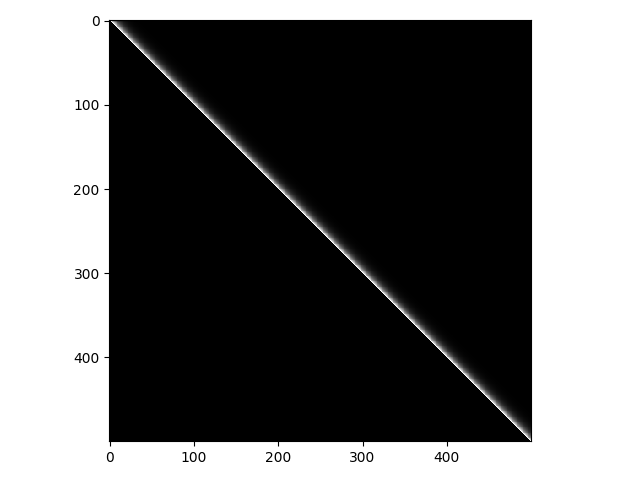
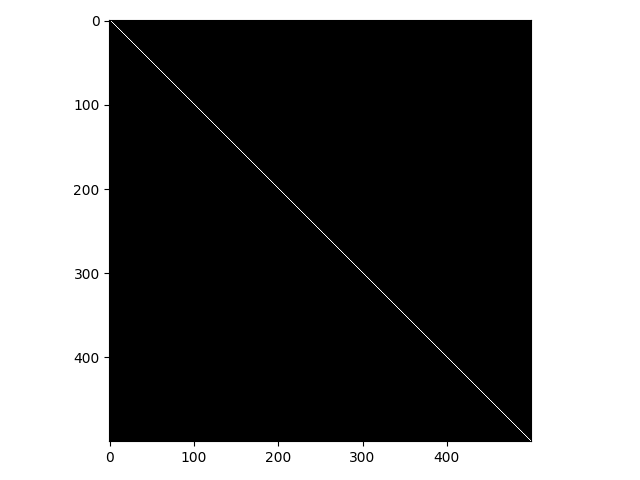
figure 2C redraw according to orignal paper
hyperparameter and maze length edited
after editing algorithm of updating SR matrix

diff --git a/figure2C.py b/figure2C.py
@@ -13,7 +13,7 @@ import sr
 
 # maze env
 
-MAZE_LENGTH = 50 # p.8 of supplement, 
+MAZE_LENGTH = 500 # p.8 of supplement, 
 # the paper said that 500 states were used for 1D maze, it seems to be typo
 # 50 states shows similar results with the figure 2C.
 SR_POINT = int(MAZE_LENGTH * 0.75)
@@ -31,7 +31,7 @@ END = [0, MAZE_LENGTH - 1]
 
 # hyperparameter for updating SR matrix
 alpha = 0.1
-gamma = 0.84 # p.8 of supplement
+gamma = 0.084 # p.8 of supplement
 # the paper said that 0.084 gamma was used for 1D maze,
 # 0.84 gamma shows similar results. With smaller gamma, the sharper SR rate shows.
 
@@ -49,18 +49,6 @@ def step(state, action):
 
     return next_state, reward
 
-# action policy
-def choose_action(state, prefered = True):
-    if prefered == True:
-        action = np.random.binomial(1, 1)
-    elif prefered == False:
-        action = np.random.binomial(1, 0.5)
-    else:
-        assert False
-    return action
-
-
-
 # prepare for SR matrix
 all_states = [[x, y] for x in range(maze.shape[0]) for y in range(maze.shape[1])]
 
@@ -70,13 +58,13 @@ history_sr_matrix = []
 
 history_exp_idx = 0
 
-for i in tqdm(range(10001)):
+for i in tqdm(range(1001)):
     state = START
     if i == 0: 
         history_sr_matrix.append(copy.deepcopy(sr_matrix[:, SR_POINT]))
     
     while state != END:
-        action = choose_action(state, prefered=True)
+        action = ACTION_RT 
         next_state, _ = step(state, action)
         sr_matrix = sr.update_SR_matrix(state, next_state, sr_matrix, \
              all_states, alpha = alpha, gamma = gamma)
